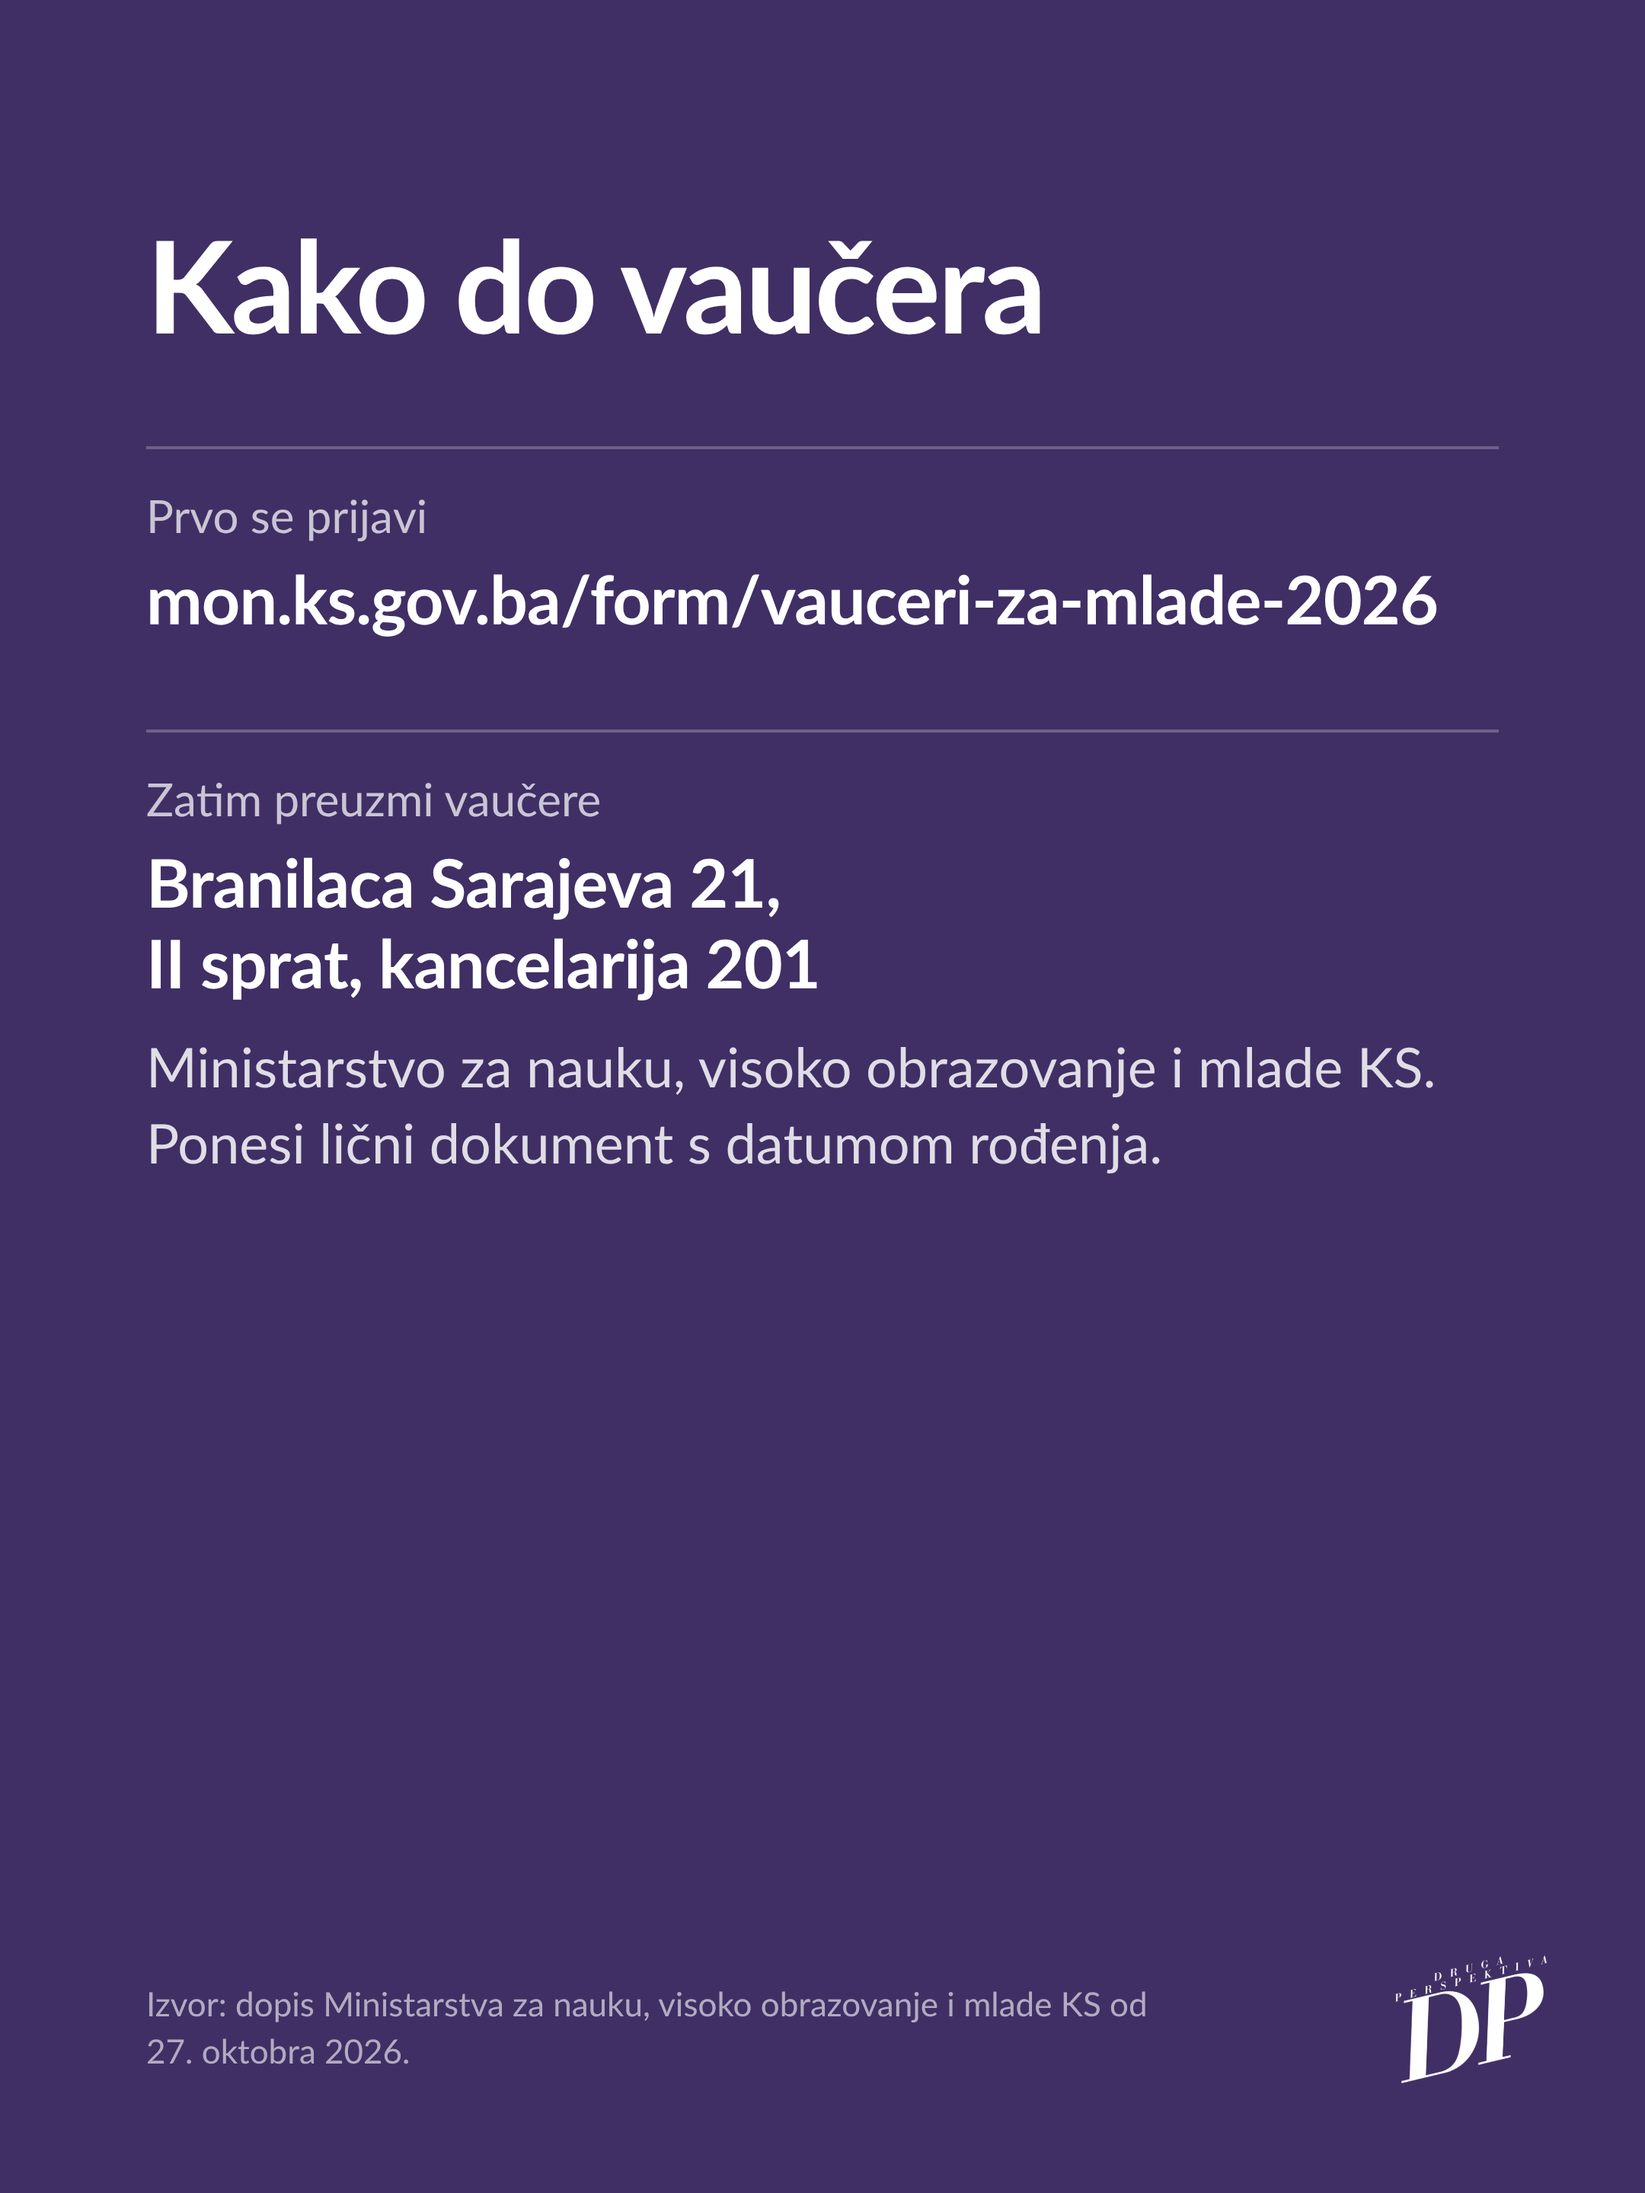
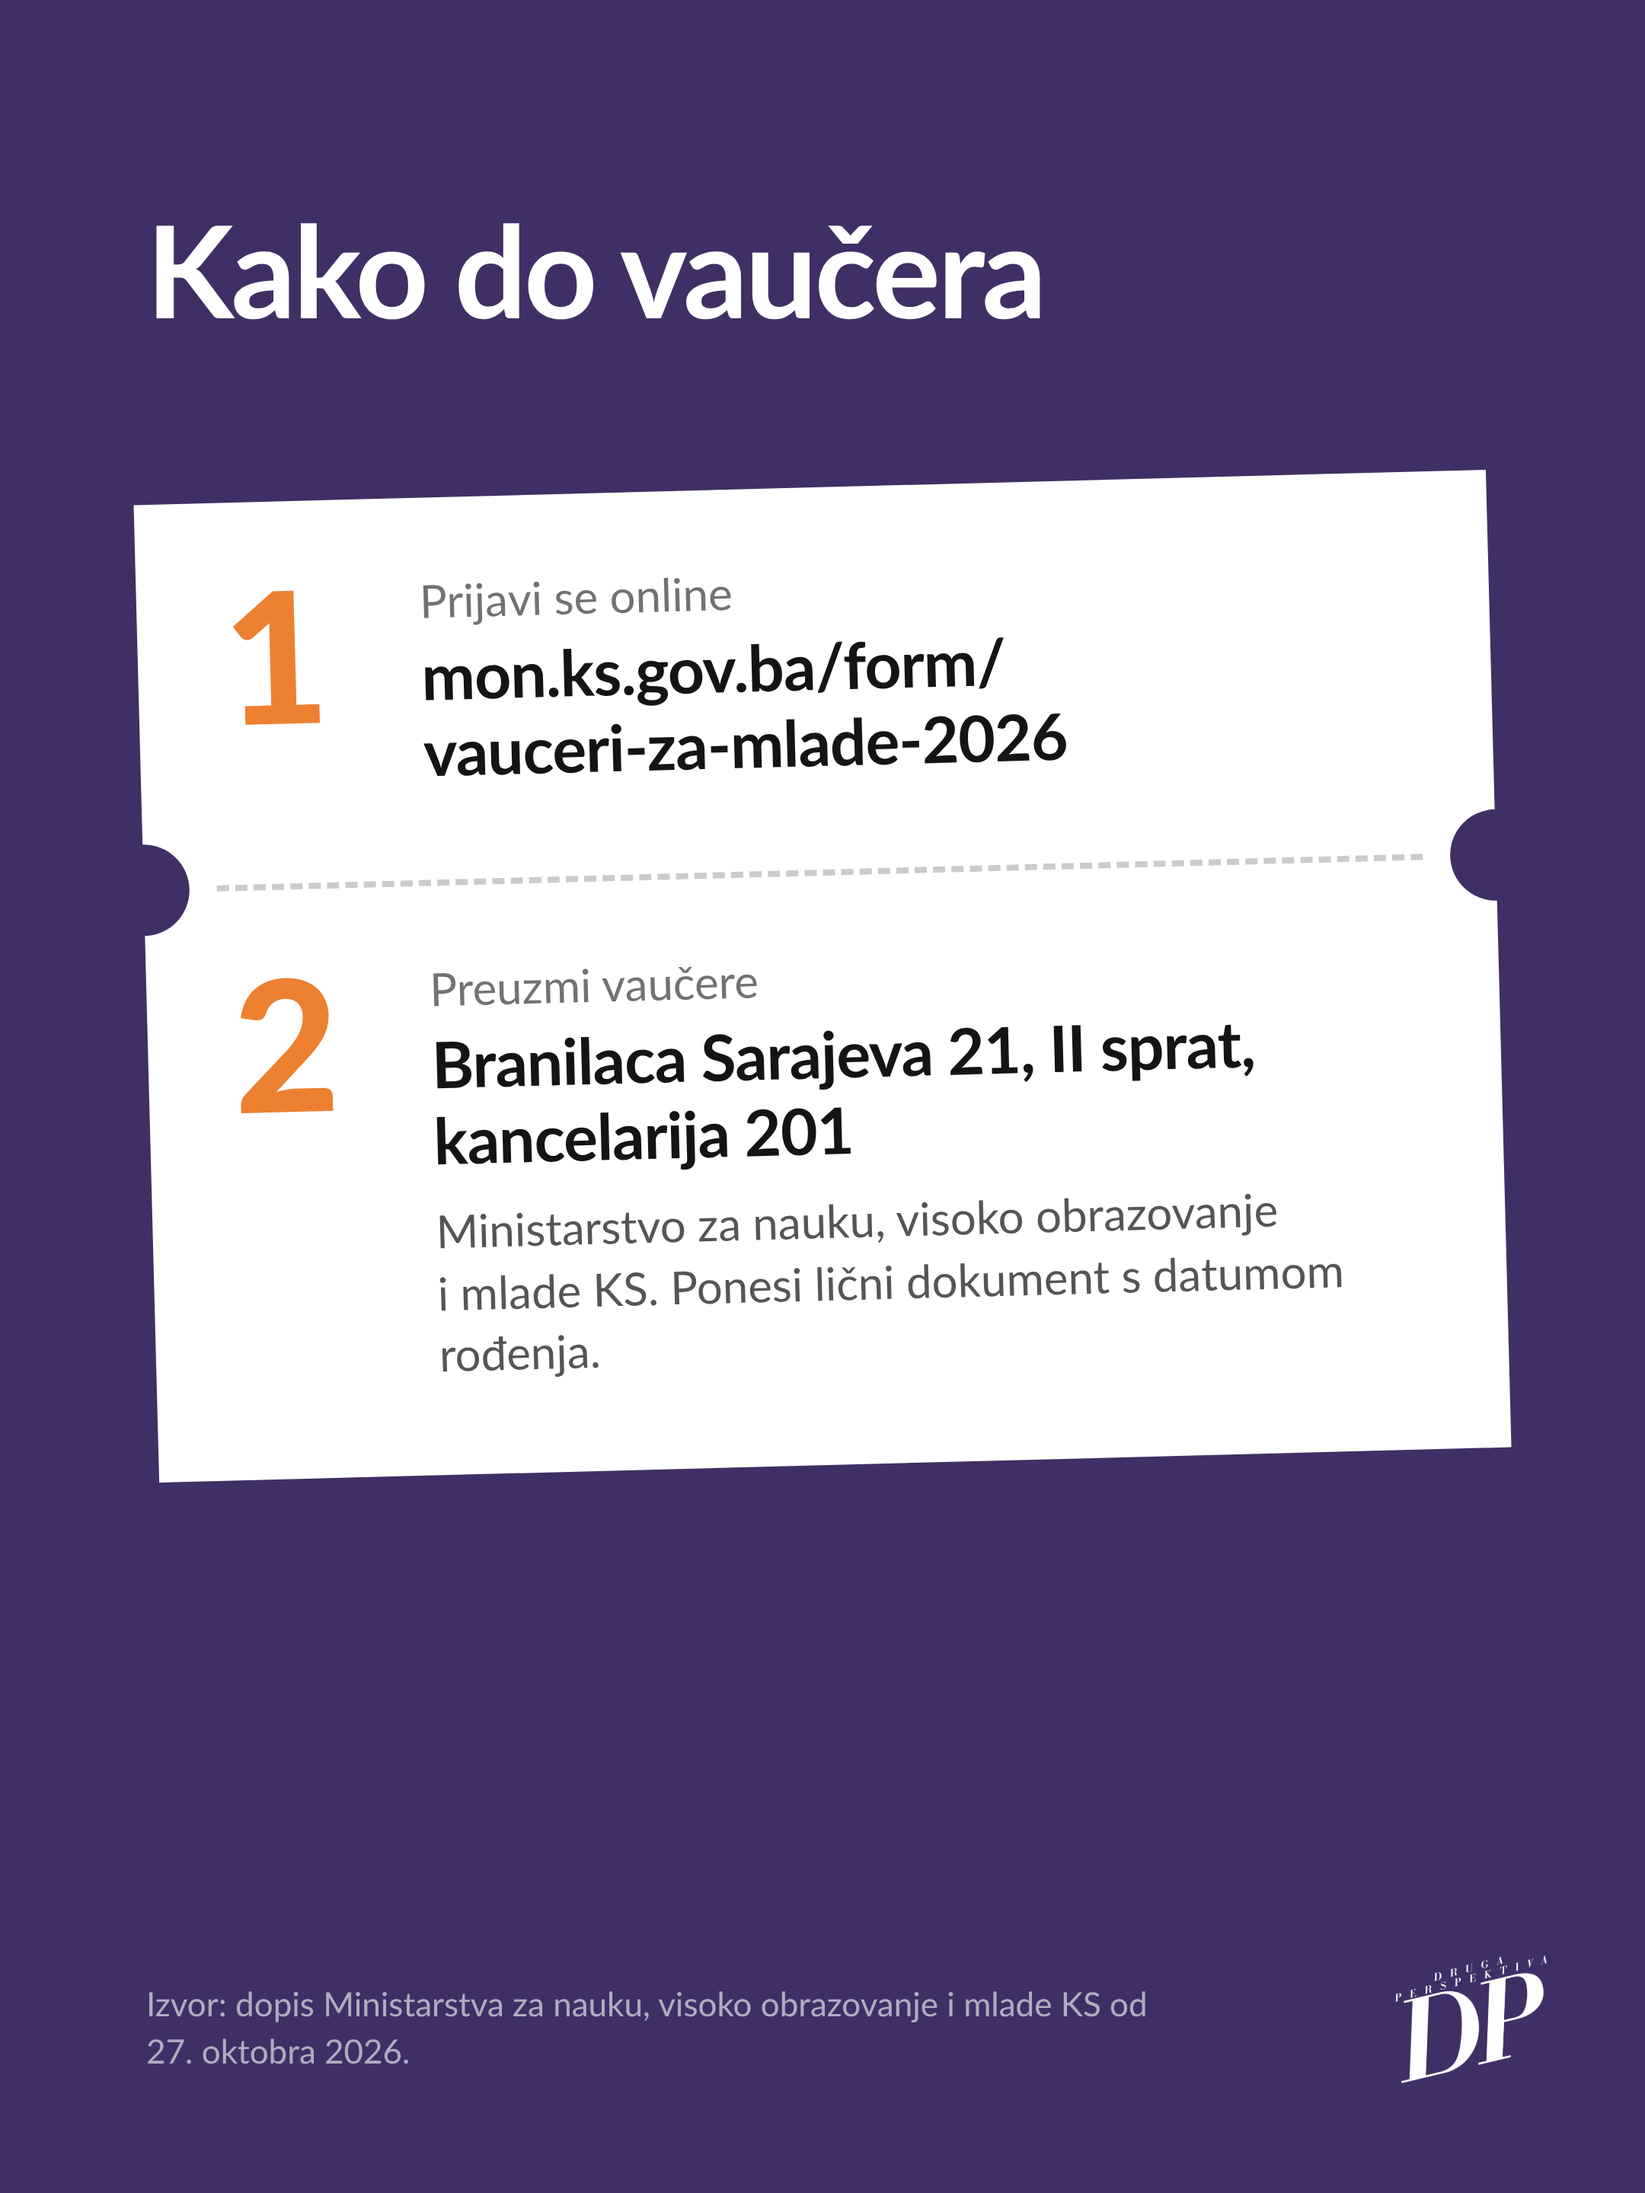
Vaučeri za mlade: novi slajdovi s motivom ulaznice i fotografijom muzeja
Claude-Session: https://claude.ai/code/session_01SB3ebjUddtcZXLP7FT1aSs

diff --git a/promo/vauceri-za-mlade/dizajn.html b/promo/vauceri-za-mlade/dizajn.html
@@ -74,65 +74,125 @@ body { background: #777; font-family: "Lato", sans-serif; color: #fff; padding: 
 }
 
 
-/* ---- Vaučeri za mlade: tekstualni slajdovi na ljubičastoj ---- */
-.tekstualni { padding: 150px 96px 0; }
-.tekstualni .naslov { font-size: 84px; }
-.tekstualni .tekst { margin-top: 40px; }
-.naglasak { margin-top: 56px; border-left: 12px solid var(--narandza); padding-left: 36px; font-size: 48px; font-weight: 700; line-height: 1.2; letter-spacing: -0.01em; }
+/* ---- Vaučeri za mlade: motiv ulaznice ---- */
+.ulaznica { position: absolute; background: #fff; color: var(--tinta); }
+.perforacija { position: relative; height: 0; border-top: 4px dashed rgba(20,20,20,.22); margin: 0 48px; }
+.perforacija::before, .perforacija::after { content: ""; position: absolute; top: -32px; width: 60px; height: 60px; border-radius: 50%; background: var(--pozadina); }
+.perforacija::before { left: -78px; } .perforacija::after { right: -78px; }
 
-.mali-naslov { font-size: 30px; color: var(--mekano); margin-top: 52px; margin-bottom: 6px; }
-.lista { list-style: none; padding: 0; border-top: 2px solid var(--linija); }
-.lista li { display: flex; justify-content: space-between; align-items: baseline; padding: 0 0; height: 76px; line-height: 76px; border-bottom: 2px solid var(--linija); font-size: 38px; }
-.nagrada { margin: 52px -24px 0; background: var(--narandza); padding: 26px 24px; font-size: 38px; font-weight: 700; line-height: 1.25; }
-.nagrada span { font-weight: 400; }
+/* Slajd 1: hrpa ulaznica */
+.s1 { --pozadina: var(--plava); background: var(--plava); }
+.s1 .uvod { position: absolute; left: 96px; top: 118px; font-size: 40px; font-weight: 700; letter-spacing: -0.01em; }
+.s1 .ulaznica { left: 120px; top: 236px; width: 800px; height: 930px; }
+.s1 .iza1 { background: rgba(255,255,255,.22); transform: rotate(8deg); }
+.s1 .iza2 { background: rgba(255,255,255,.45); transform: rotate(3deg); }
+.s1 .prednja { transform: rotate(-3.5deg); box-shadow: 0 30px 60px rgba(20,20,40,.18); }
+.s1 .gore { padding: 52px 60px 0; height: 712px; }
+.s1 .vrsta { font-size: 30px; color: rgba(20,20,20,.6); }
+.s1 .broj { font-size: 470px; font-weight: 900; line-height: .78; letter-spacing: -0.04em; color: var(--plava); margin: 34px 0 0 -14px; }
+.s1 .opis { font-size: 66px; font-weight: 700; line-height: 1.02; letter-spacing: -0.022em; margin-top: 30px; }
+.s1 .stub { display: flex; justify-content: space-between; padding: 40px 60px 0; }
+.s1 .stub small { display: block; font-size: 26px; color: rgba(20,20,20,.6); }
+.s1 .stub b { display: block; font-size: 44px; font-weight: 900; letter-spacing: -0.02em; margin-top: 4px; }
+.s1 .stub div:last-child { text-align: right; }
+.s1 .dole { position: absolute; left: 96px; right: 240px; bottom: 68px; font-size: 36px; line-height: 1.32; color: rgba(255,255,255,.92); }
 
-.korak { margin-top: 56px; border-top: 2px solid var(--linija); padding-top: 28px; }
-.korak .oznaka-reda { font-size: 30px; color: var(--mekano); }
-.korak .vrijednost { font-size: 44px; font-weight: 700; line-height: 1.2; letter-spacing: -0.01em; margin-top: 12px; overflow-wrap: anywhere; }
-.korak .tekst { margin-top: 16px; font-size: 36px; }
+/* Slajd 2: fotografija + panel */
+.s2 .slika { position: absolute; left: 0; top: 0; width: 100%; height: 560px; object-fit: cover; object-position: 50% 60%; }
+.s2 .potpis { bottom: 900px; }
+.s2 .panel { position: absolute; left: 0; right: 0; top: 560px; bottom: 0; padding: 64px 96px 0; }
+.s2 .naslov { font-size: 76px; }
+.s2 .kolone { display: grid; grid-template-columns: 1fr 1fr; gap: 48px; margin-top: 44px; }
+.s2 .mali { font-size: 28px; color: var(--mekano); padding-bottom: 12px; border-bottom: 2px solid var(--linija); }
+.s2 ul { list-style: none; padding: 0; }
+.s2 li { font-size: 33px; line-height: 1.18; padding: 15px 0; border-bottom: 2px solid var(--linija); }
+.s2 .nagrada { position: absolute; left: 72px; right: 220px; bottom: 60px; background: var(--narandza); padding: 22px 24px; font-size: 34px; font-weight: 700; line-height: 1.2; }
+.s2 .nagrada span { font-weight: 400; }
+
+/* Slajd 3: ulaznica u dva dijela */
+.s3 { --pozadina: var(--ljubicasta); }
+.s3 .naslov { position: absolute; left: 96px; top: 140px; font-size: 84px; }
+.s3 .ulaznica { left: 96px; right: 96px; top: 320px; transform: rotate(-1.5deg); }
+.s3 .dio { display: grid; grid-template-columns: 110px 1fr; gap: 20px; padding: 52px 56px 56px; }
+.s3 .redni { font-size: 120px; font-weight: 900; line-height: .8; letter-spacing: -0.04em; color: var(--narandza); }
+.s3 .sta { font-size: 30px; color: rgba(20,20,20,.6); }
+.s3 .vrijednost { font-size: 42px; font-weight: 700; line-height: 1.18; letter-spacing: -0.012em; margin-top: 8px; }
+.s3 .napomena { font-size: 30px; line-height: 1.35; color: rgba(20,20,20,.72); margin-top: 14px; }
 .izvor { position: absolute; left: 96px; right: 240px; bottom: 76px; font-size: 22px; line-height: 1.4; color: rgba(255,255,255,.6); }
 </style>
 </head>
 <body>
 
-<section class="slide post tekstualni">
-	<h2 class="naslov">Svi rođeni 2008. dobijaju devet besplatnih ulaznica</h2>
-	<p class="tekst">Za 18. rođendan Kanton Sarajevo i ove godine poklanja vaučere za pozorišta i muzeje. Pravo imaju svi učenici rođeni 2008. koji žive u Kantonu Sarajevo.</p>
-	<p class="naglasak">Svaka ulaznica vrijedi za dvije osobe,<br>pa povedi društvo.</p>
+<section class="slide post s1">
+	<p class="uvod">Poklon za 18. rođendan</p>
+	<div class="ulaznica iza1"></div>
+	<div class="ulaznica iza2"></div>
+	<div class="ulaznica prednja">
+		<div class="gore">
+			<p class="vrsta">Vaučer za mlade</p>
+			<p class="broj">9</p>
+			<p class="opis">besplatnih ulaznica za pozorišta i&nbsp;muzeje</p>
+		</div>
+		<div class="perforacija"></div>
+		<div class="stub">
+			<div><small>Svaka vrijedi za</small><b>dvije osobe</b></div>
+			<div><small>Generacija</small><b>2008.</b></div>
+		</div>
+	</div>
+	<p class="dole">Za sve učenike rođene 2008. koji žive u&nbsp;Kantonu Sarajevo.</p>
 	<img class="logo" src="../../dp-objave/assets/logo-bijeli.png" alt="">
 </section>
 
-<section class="slide post tekstualni">
-	<h2 class="naslov">Gdje vrijede</h2>
-	<p class="mali-naslov">Pozorišta</p>
-	<ul class="lista">
-		<li>Narodno pozorište</li>
-		<li>Pozorište mladih</li>
-		<li>Sarajevski ratni teatar SARTR</li>
-		<li>Kamerni teatar 55</li>
-	</ul>
-	<p class="mali-naslov">Muzeji</p>
-	<ul class="lista">
-		<li>Zemaljski muzej BiH</li>
-		<li>Historijski muzej BiH</li>
-		<li>Muzej Sarajeva</li>
-		<li>Muzej ratnog djetinjstva</li>
-		<li>Muzej Planet Sarajevo</li>
-	</ul>
+<section class="slide post s2">
+	<img class="slika" src="muzej.jpg" alt="Zemaljski muzej Bosne i Hercegovine">
+	<div class="potpis">Foto: Fred Romero, CC BY 2.0</div>
+	<div class="panel">
+		<h2 class="naslov">Gdje ih možeš iskoristiti</h2>
+		<div class="kolone">
+			<div>
+				<p class="mali">Pozorišta</p>
+				<ul>
+					<li>Narodno pozorište</li>
+					<li>Pozorište mladih</li>
+					<li>Sarajevski ratni teatar SARTR</li>
+					<li>Kamerni teatar 55</li>
+				</ul>
+			</div>
+			<div>
+				<p class="mali">Muzeji</p>
+				<ul>
+					<li>Zemaljski muzej BiH</li>
+					<li>Historijski muzej BiH</li>
+					<li>Muzej Sarajeva</li>
+					<li>Muzej ratnog djetinjstva</li>
+					<li>Muzej Planet Sarajevo</li>
+				</ul>
+			</div>
+		</div>
+	</div>
 	<p class="nagrada">Iskoristiš svih devet? <span>Čeka te posebna nagrada.</span></p>
 	<img class="logo" src="../../dp-objave/assets/logo-bijeli.png" alt="">
 </section>
 
-<section class="slide post tekstualni">
+<section class="slide post s3">
 	<h2 class="naslov">Kako do vaučera</h2>
-	<div class="korak">
-		<p class="oznaka-reda">Prvo se prijavi</p>
-		<p class="vrijednost">mon.ks.gov.ba/form/<wbr>vauceri-za-mlade-2026</p>
-	</div>
-	<div class="korak">
-		<p class="oznaka-reda">Zatim preuzmi vaučere</p>
-		<p class="vrijednost">Branilaca Sarajeva 21,<br>II sprat, kancelarija&nbsp;201</p>
-		<p class="tekst">Ministarstvo za nauku, visoko obrazovanje i mlade KS. Ponesi lični dokument s datumom rođenja.</p>
+	<div class="ulaznica">
+		<div class="dio">
+			<p class="redni">1</p>
+			<div>
+				<p class="sta">Prijavi se online</p>
+				<p class="vrijednost">mon.ks.gov.ba/form/<br>vauceri-za-mlade-2026</p>
+			</div>
+		</div>
+		<div class="perforacija"></div>
+		<div class="dio">
+			<p class="redni">2</p>
+			<div>
+				<p class="sta">Preuzmi vaučere</p>
+				<p class="vrijednost">Branilaca Sarajeva 21, II&nbsp;sprat, kancelarija&nbsp;201</p>
+				<p class="napomena">Ministarstvo za nauku, visoko obrazovanje i mlade KS. Ponesi lični dokument s&nbsp;datumom rođenja.</p>
+			</div>
+		</div>
 	</div>
 	<p class="izvor">Izvor: dopis Ministarstva za nauku, visoko obrazovanje i mlade KS od 27.&nbsp;oktobra 2026.</p>
 	<img class="logo" src="../../dp-objave/assets/logo-bijeli.png" alt="">
